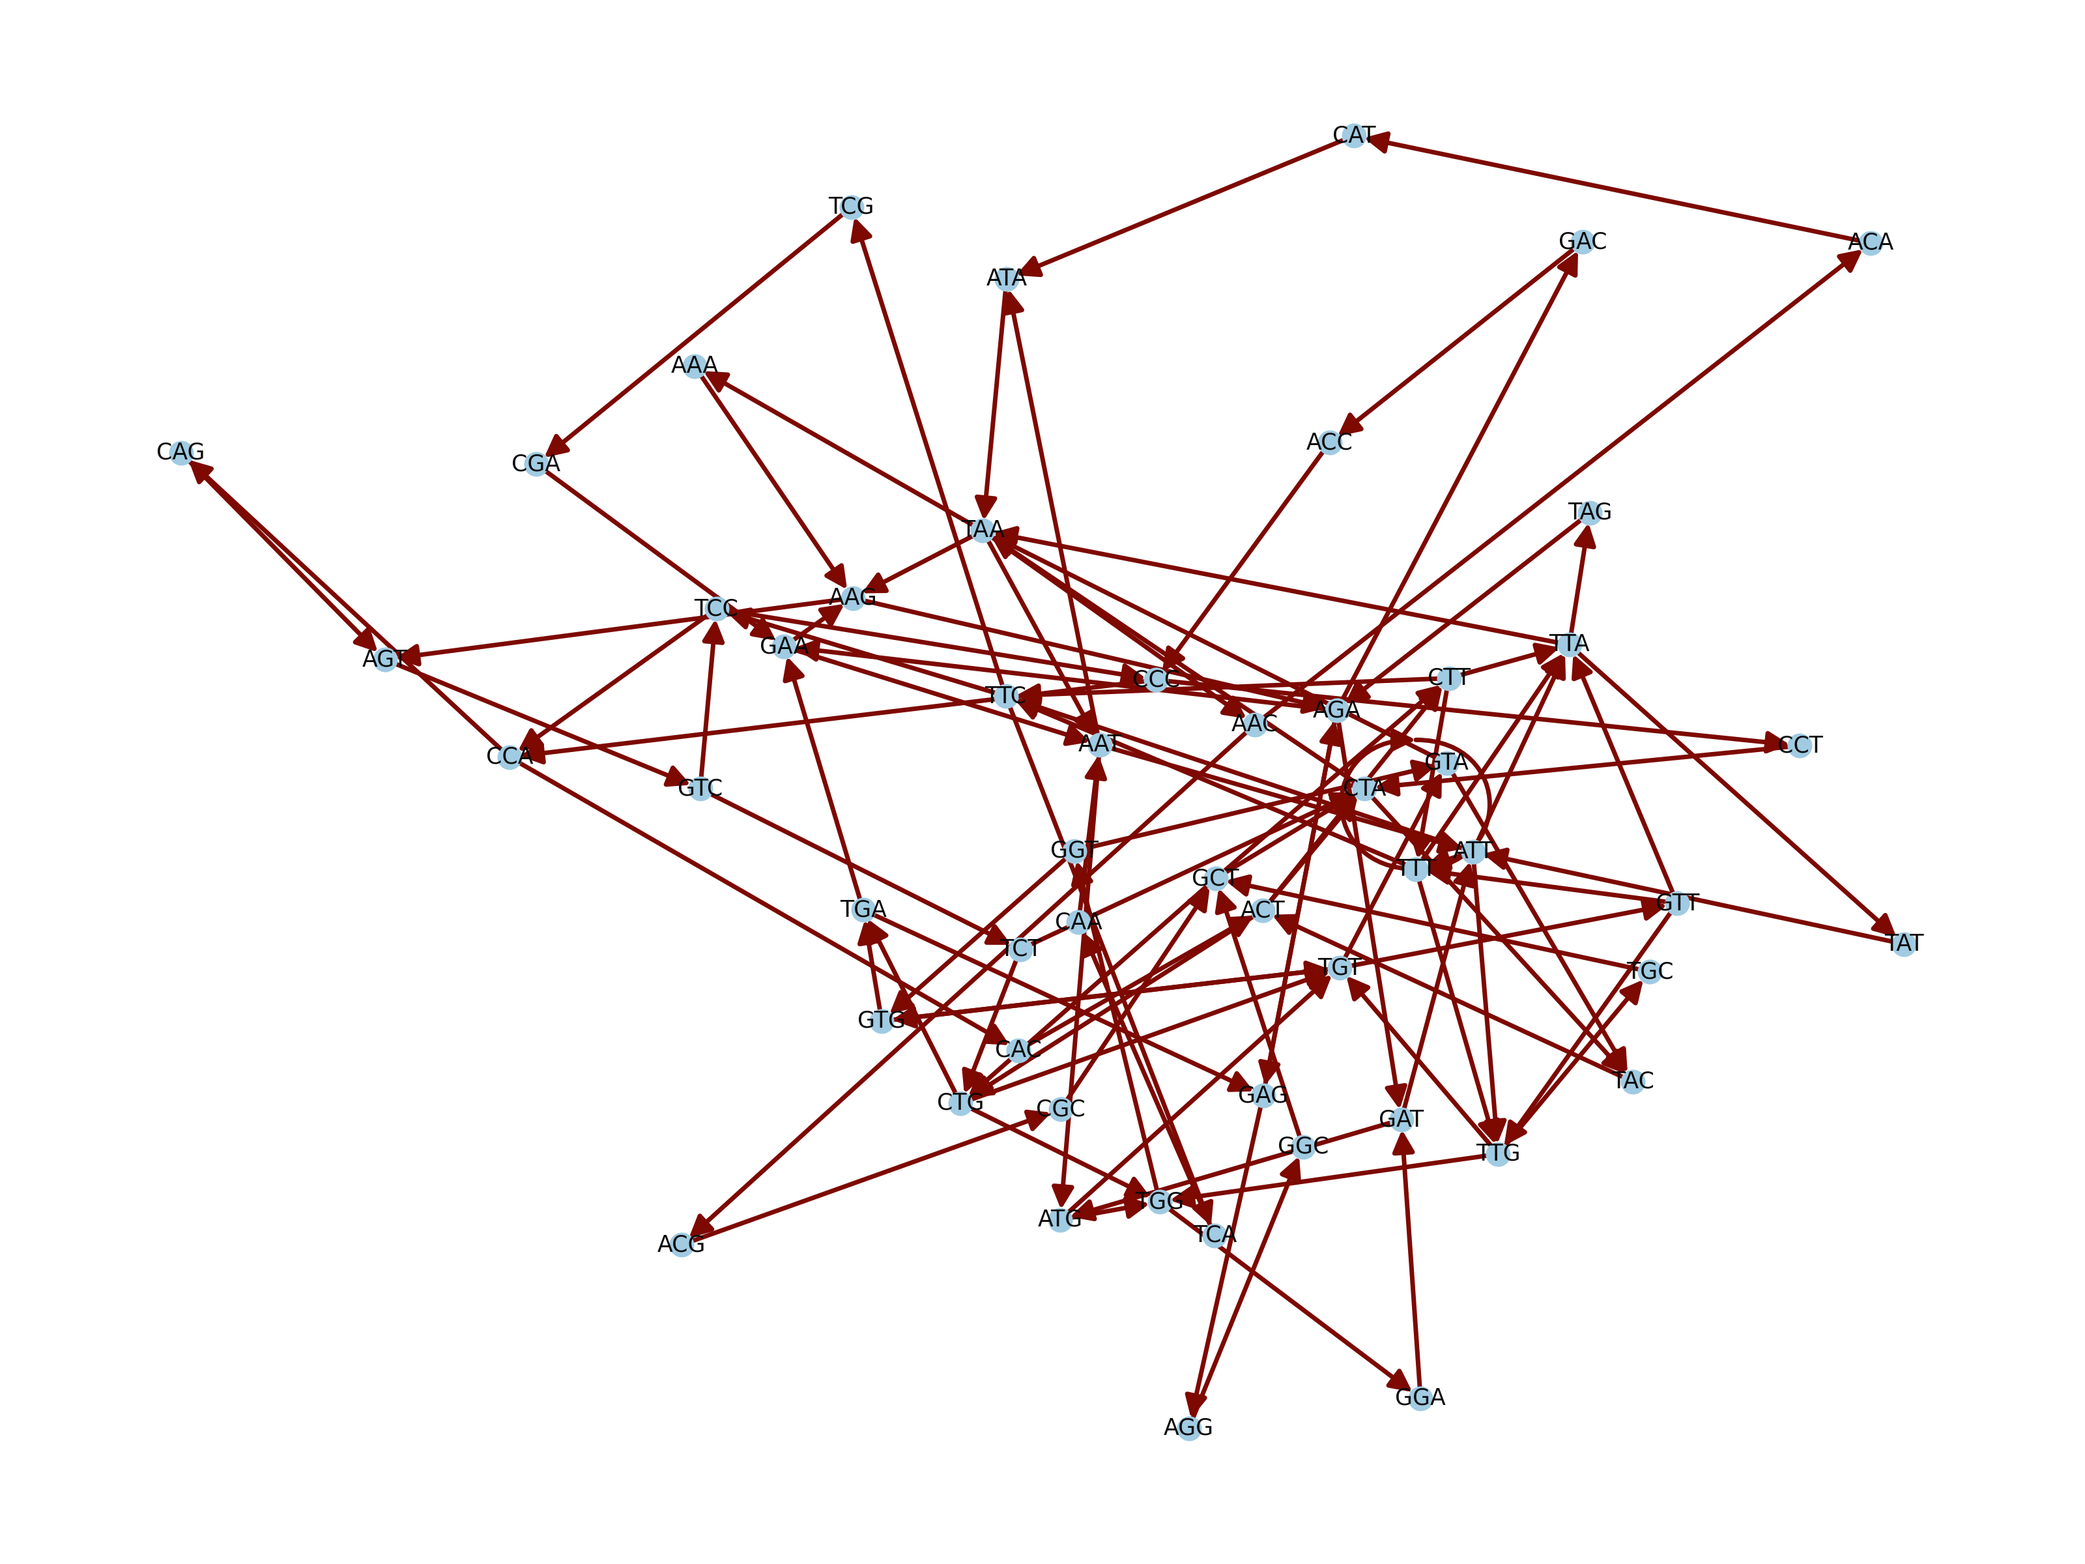
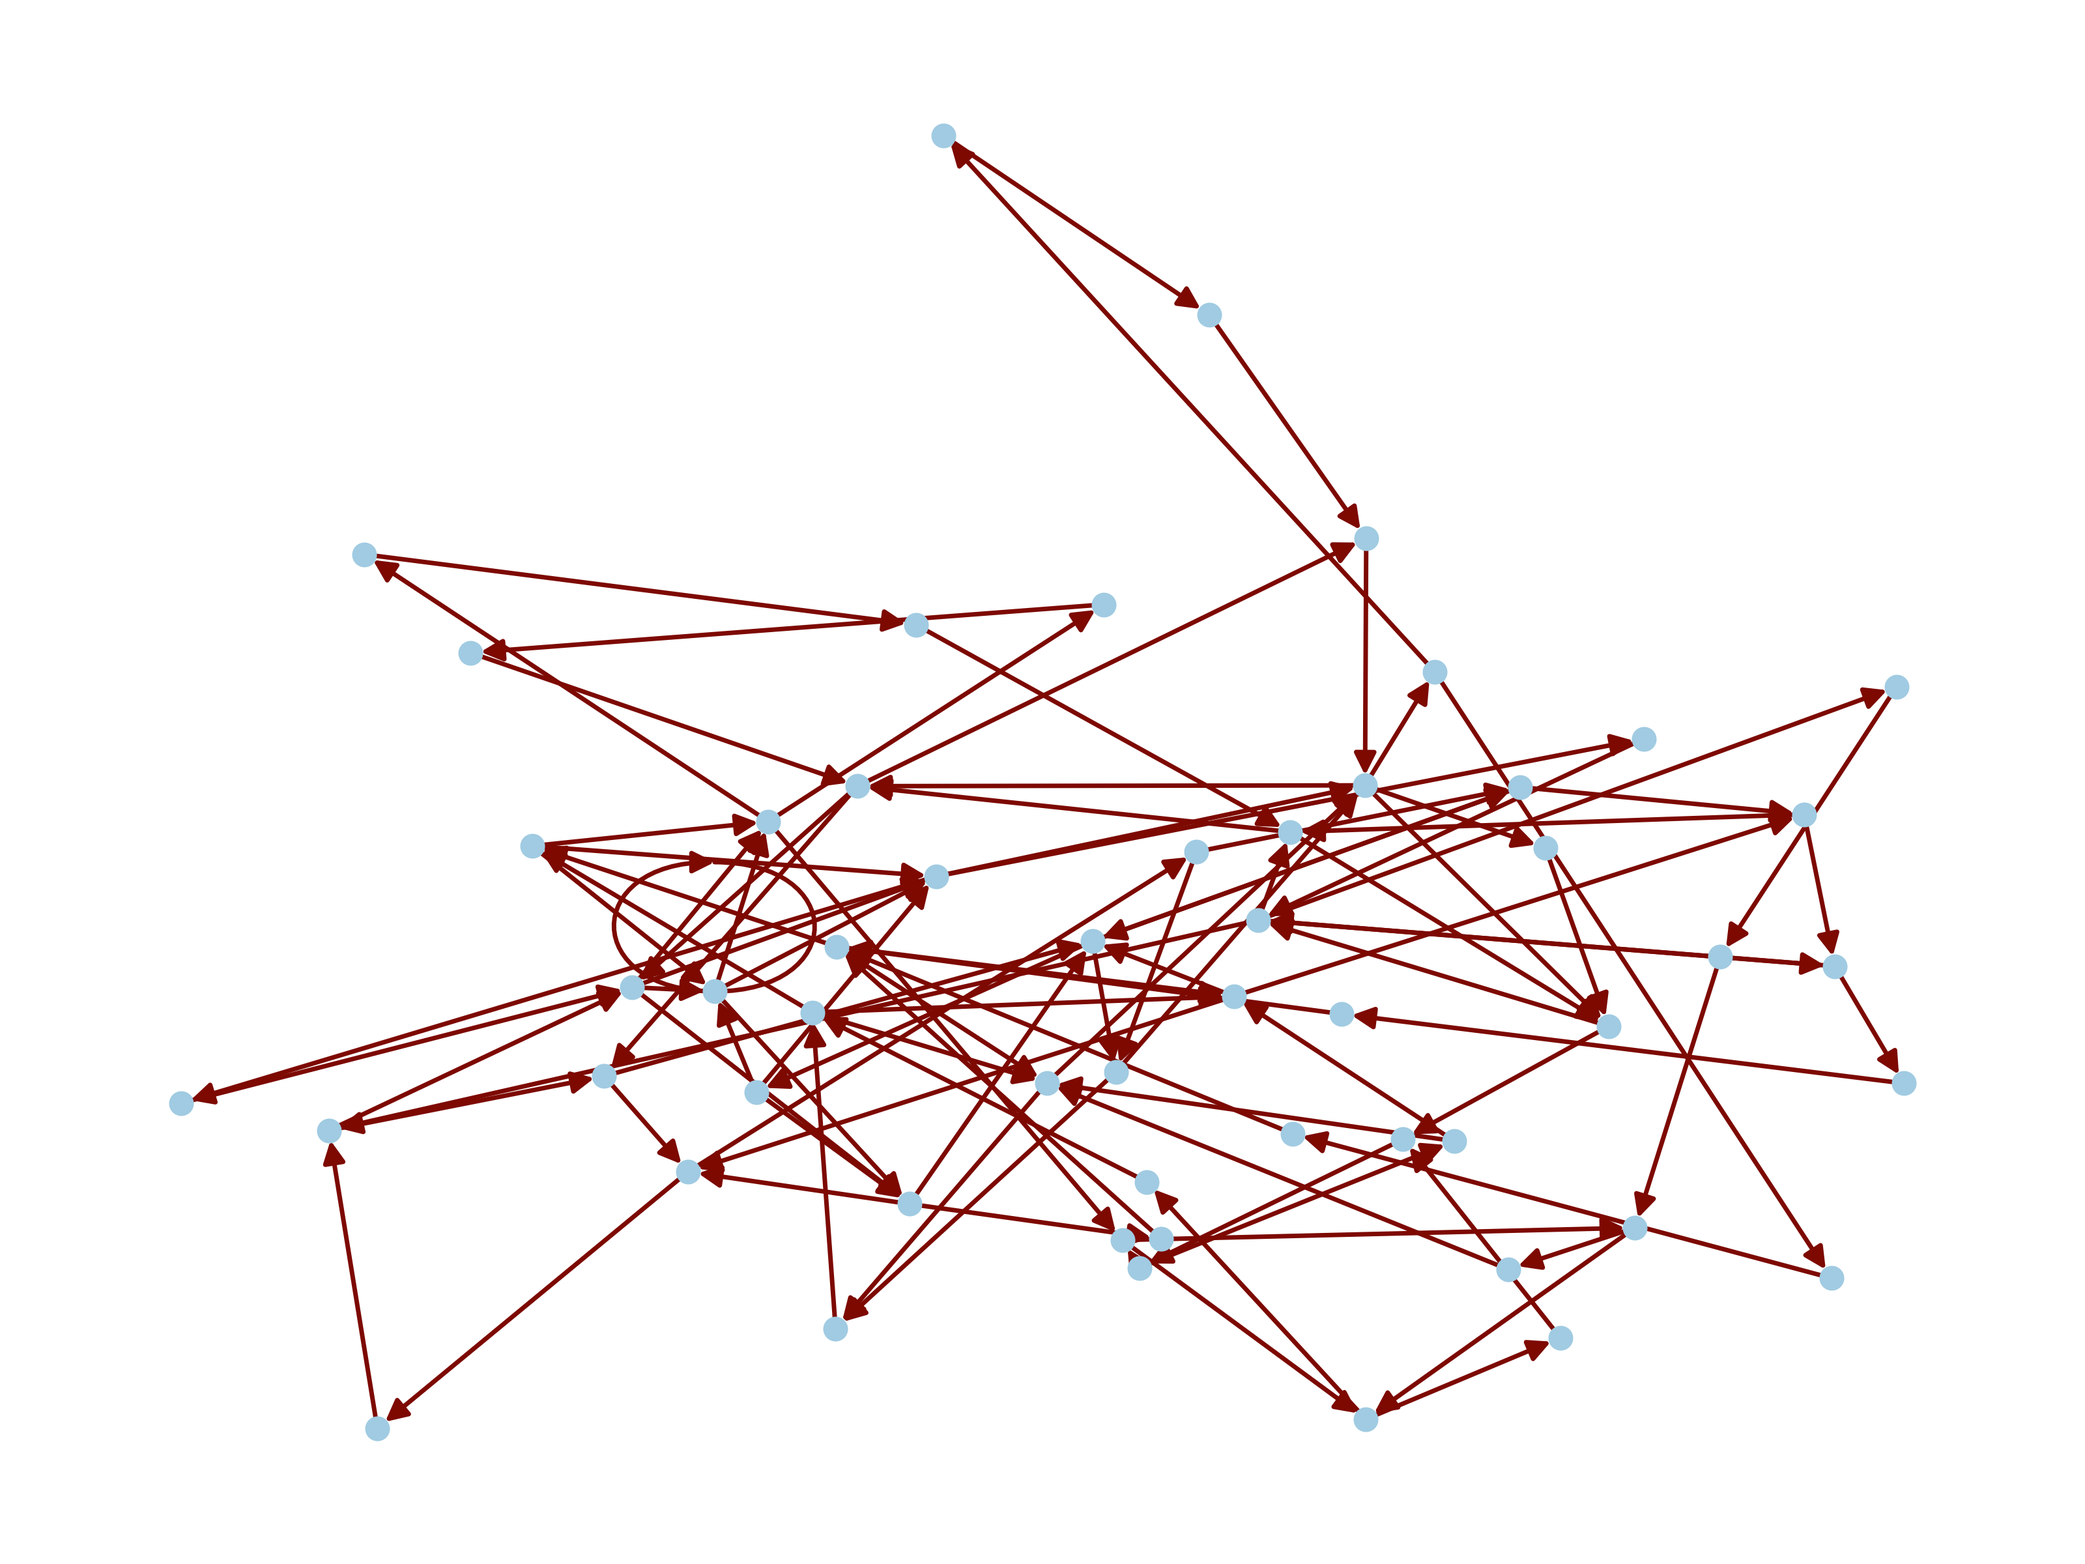
update

diff --git a/alignment.py b/alignment.py
@@ -1,0 +1,251 @@
+# Samuel Kitzerow, kitze012
+
+import numpy as np
+
+'''
+   REFERENCE SEQUENCE
+  |   | A | C | G | T |
+----------------------|
+  |   |   |   |   |   |A S
+----------------------|L E
+A |   |   |   |   |   |I Q
+----------------------|G U
+C |   |   |   |   |   |N E
+----------------------|M N
+G |   |   |   |   |   |E C
+----------------------|N E
+T |   |   |   |   |   |T
+-----------------------
+'''
+
+class alignment:
+    def __init__(self, ref, seq, gap_pen = -2, match_pen = -1, ign = False):
+        self.ref = ref                          # Sequence being referenced
+        self.seq = seq                          # Sequence 1
+        self.gap_pen = gap_pen                  # Gap penalty
+        self.match_pen = match_pen              # Mismatch penalty
+        self.ign = ign                          # Ignore start and end gaps
+
+        self.score = 0                          # Alignment score
+        self.ref_align = ""                     # Alignment of sequence reference with gaps added
+        self.seq_align = ""                     # Alignment of sequence 1 with gaps added
+        self.vis = ""                           # Visualization of alignment (for text file)
+
+        self.counts = [0,0,0,0]                 # Counts: matches, mismatches, gaps, ens/start gaps
+
+        self.s = None                           # Scoring matrix
+        self.n = None                           # Neighbor matrix (tracks direction)
+        self.build_matrix()
+    
+    # ----------------------------------------------------------------------------------------------------------------------
+    # Initializes scoring and neighbor matrices
+    def build_matrix(self):
+        col = len(self.ref) + 1
+        row = len(self.seq) + 1
+
+        self.s = np.array([[0]*col for i in range(row)])                # Initialize scoring matrix
+        self.n = np.array([[None]*col for i in range(row)])             # Initialize neighbor matrix
+
+        k = 0
+        for i in range(col):
+            k = (self.gap_pen * i)
+            if(self.ign): self.s[0, i] = 0                              # Ignore start and end gap penalties by zeroing
+            else: self.s[0, i] = k                                      # Adding row gap penalties
+            self.n[0, i] = (0,i-1)                                      # Adding row placeholders for neighbor matrix
+        
+        k = 0
+        for i in range(row):
+            k = (self.gap_pen * i)
+            if(self.ign): self.s[i, 0] = 0                              # Ignore start and end gap penalties by zeroing
+            else: self.s[i, 0] = k                                      # Adding column gap penalties
+            self.n[i, 0] = (i-1,0)                                      # Adding column placeholders for neighbor matrix
+
+        self.n[0, 0] = None
+
+        for n in range(1, row):                                         # Iterate thru each element once for alignment
+            for m in range(1, col):
+                # print("Row: ", n, " Col: ", m)
+                self.align_sequence(m, n)                               # Computing each score at row x column
+    
+    # ----------------------------------------------------------------------------------------------------------------------
+    # Populates neighbor and scoring matrices with corresponding placement scores and neighbors
+    def align_sequence(self, col, row):
+        #print("Col: ", col," Row: ", row)
+
+        left = self.s[row][col-1] + self.gap_pen                        # Score from right neighbor                             
+        right = self.s[row-1][col] + self.gap_pen                       # Score from right neighbor
+
+        if(self.ref[col-1] == self.seq[row-1]):                         # Check for matches
+            corner = self.s[row-1][col-1] + 1                           # Score from corner neighbor
+        else:                                                           # No match, add penalty
+            corner = self.s[row-1][col-1] + self.match_pen              # Score from corner neighbor
+
+        score = max(left, corner, right)                                # Take the best score
+
+        if(left == score):                                              # Best path is left neighbor
+            self.n[row][col] = (row, col-1)
+        elif(corner == score):                                          # Best path is corner neighbor
+            self.n[row][col] = (row-1, col-1)
+        else:                                                           # Best path is right neighbor
+            self.n[row][col] = (row-1, col)
+
+        self.s[row][col] = score                                        # Add score to matrix
+
+    # ----------------------------------------------------------------------------------------------------------------------
+    # Universal getter for alignment strings
+    def get_alignment(self):
+
+        # Resetting alignment values
+        self.ref_align = ""
+        self.seq_align = ""
+        self.vis = ""
+        self.score = 0
+
+        if(self.ign): 
+            self.get_local_alignment()               # Get alignment that ignores start/end gaps
+        else: 
+            self.get_global_alignment()              # Get alignment the tracks start/end gaps
+
+        return (self.ref_align, self.vis, self.seq_align, self.score)
+    
+    # ----------------------------------------------------------------------------------------------------------------------
+    # Creates alignment strings for sequence reference, sequence 1, and alignment visualization. Also computes total alignment score.
+    def get_global_alignment(self):
+
+        if(self.ign):                                                           # Matrix must be rebuilt to count start/end gaps
+            self.ign = False
+            self.build_matrix()
+
+        row = len(self.seq)
+        col = len(self.ref)
+        pos = self.n[row][col]                                                  # Start alignment here
+        
+        while(pos != None):
+            # print("Alignment: ", pos, " Row: ", row, " Col: ", col)
+            self.alignment_string(row, col, pos)
+
+            # Incrementing values to next neighbor
+            row = pos[0]
+            col = pos[1]
+            pos = self.n[row][col]
+
+    # ----------------------------------------------------------------------------------------------------------------------
+    # # Creates alignment strings for sequence reference, sequence 1, and alignment visualization while ingoring start/end gaps
+    def get_local_alignment(self):
+
+        if(self.ign == False):                      # Matrix must be rebuilt to ignore start/end gaps
+            self.ign = True
+            self.build_matrix()
+
+        row = len(self.seq)                         # Last Row
+        col = np.argmax(self.s[row])                # Get index with max value
+        pos = self.n[row][col]                      # Get contributing neighbor
+
+        i = len(self.ref)
+        while(i > col):                             # Adding end characters to alignment strings
+            #print("Index: ", i)
+            self.ref_align = self.ref[i-1] + self.ref_align
+            self.seq_align = "_" + self.seq_align
+            self.vis = " " + self.vis
+            self.counts[3] += 1                                     # Incrementing start/end gap count
+            i -= 1
+
+        while(row != 0 and col != 0):                               # Adding alignment characters
+            #print("Alignment: ", pos, " Row: ", row, " Col: ", col, " Score: ", self.score)
+            self.alignment_string(row, col, pos)
+
+            # Incrementing values to next neighbor
+            row = pos[0]
+            col = pos[1]
+            pos = self.n[row][col]
+
+        while(pos != None):                                         # Adding start characters to alignment strings
+            #print("Row: ", row, " Col: ", col, " Pos: ", pos)
+            if(col == 0):                                           # End of reference string reached
+                self.ref_align = "_" + self.ref_align
+                self.seq_align = self.seq[row-1] + self.seq_align
+            elif(row == 0):                                         # End of sequence being aligned
+                self.ref_align = self.ref[col-1] + self.ref_align
+                self.seq_align = "_" + self.seq_align
+
+            self.vis = " " + self.vis
+            self.counts[3] += 1                                     # Incrementing start/end gap count
+            
+            # Incrementing values to next neighbor
+            row = pos[0]
+            col = pos[1]
+            pos = self.n[row][col]
+
+    # ----------------------------------------------------------------------------------------------------------------------
+    # Appends to alignment strings (self.ref_align, self.seq_align, and self.vis)
+    def alignment_string(self, row, col, pos):
+
+        if(pos[0] == row-1 and pos[1] == col-1):                            # Diagonal alignment
+            self.ref_align = self.ref[col-1] + self.ref_align
+            self.seq_align = self.seq[row-1] + self.seq_align
+
+            if(self.ref[col-1] == self.seq[row-1]):                         # Character match
+                self.vis = "|" + self.vis
+                self.score += 1
+                self.counts[0] += 1                                         # Incrementing match count
+
+            else:                                                           # Character mismatch
+                self.vis = "X" + self.vis
+                self.score += self.match_pen
+                self.counts[1] += 1                                         # Incrementing mismatch count
+            
+
+        elif(pos[0] == row-1 and pos[1] == col):                            # Verticle alignment (sequence 1 gap)
+            self.ref_align = "_" + self.ref_align
+            self.seq_align = self.seq[row-1] + self.seq_align
+            self.vis = " " + self.vis
+            self.score += self.gap_pen                                      # Add gap penalty to score
+            self.counts[2] += 1                                             # Incrementing gap count
+
+        elif(row == pos[0] and pos[1] == col-1):                            # Horizontal alignment (sequence 2 gap)
+            self.ref_align = self.ref[col-1] + self.ref_align
+            self.seq_align = "_" + self.seq_align
+            self.vis = " " + self.vis
+            self.score += self.gap_pen                                      # Add gap penalty to score
+            self.counts[2] += 1                                             # Incrementing gap count
+    
+    # ----------------------------------------------------------------------------------------------------------------------
+    # Prints score and neighbor matrices (I didn't want to keep typing the prints in main)
+    def print_matrices(self):
+        print(self.s)
+        print(self.n)
+    
+    # ----------------------------------------------------------------------------------------------------------------------
+    # Prints aligned sequences with visiualization (I didn't want to keep typing the prints in main as well)
+    '''
+    Score: 23
+    __C_GATT_TCGGG...
+      |  ||| |xx||
+    AGCA_ATTCTTCGG...
+    '''
+    def print_alignment(self):
+        print("Score: ", self.score)
+        print(self.ref_align)
+        print(self.vis)
+        print(self.seq_align)
+
+# ==========================================================================================================================
+# Testing
+def main():
+    ref = "ATGTTTGTTTTTCTTGTTTTATTGCCACTAGTCTCTAGTCAGTGTGTTAATCTTACAACCAGA"
+    seq = "AACCCGCCACCATGTTCGTGTTCCTGGTGCTGCTGCCTCTGGTGTCCAGCCAGTGTGTGAACC"
+
+    #a = alignment(ref, seq)
+    #a.print_matrices()
+    #a.get_alignment()
+    #a.print_alignment()
+    #a.print_matrices()
+
+    b = alignment(ref, seq, -2, -1, True)
+    b.get_local_alignment()
+    #b.get_alignment()
+    b.print_alignment()
+    #b.print_matrices()
+
+if __name__ == "__main__":
+    main()

diff --git a/de_bruijn.py b/de_bruijn.py
@@ -19,10 +19,10 @@ class De_bruijn:
         self.edges = set()
 
     # ----------------------------------------------------------------------------------------------------------
-    def de_bruijn_graph(self, start=0, end=1, k=3, cycle=True):
+    def de_bruijn_graph(self, start=0, end=1, k=3, cycle=False):
 
         if(end > len(self.seq) or start < 0 or start > end):             # Cannot exceed bounds of the list self.seq
-            print("ERROR: Invalid input for num!")
+            print("ERROR: Invalid input!")
             return
 
         seq = self.seq[start:end]
@@ -34,7 +34,7 @@ class De_bruijn:
     # Build a list of all kmers in the provided sequences
     # k: kmer size
     # cycle: sequence is cyclic or not
-    def get_kmers(self, seq, k=3, cycle=True):
+    def get_kmers(self, seq, k=3, cycle=False):
         kmers = {}
 
         for s in tqdm(seq, desc=str(k)+'-mers'):   # Iterate thru sequences with progress bar
@@ -112,7 +112,7 @@ class De_bruijn:
 
     # ----------------------------------------------------------------------------------------------------------
     # Creates graph of connected nodes with corresponding kmers using matplotlib
-    def matplot_graph(self, show_fig=True, save_fig=False, file='./output/deBruijn.png'):
+    def matplot_graph(self, show_lab=False, show_fig=True, save_fig=False, file='./output/deBruijn.png'):
         print("Creating Garph Image: ", file)
         with tqdm(total=4, desc='Image Graph') as bar:              # Progress bar
             plt.clf()
@@ -127,7 +127,7 @@ class De_bruijn:
                 "node_color": "#A0CBE2",
                 "node_size": 20,
                 "edge_color": "#7d0901",
-                "with_labels": True,            # Show kmer labels
+                "with_labels": show_lab,            # Show kmer labels
                 "font_size": 5,
                 "font_color": "#0a0a0a"
             }
@@ -147,6 +147,6 @@ class De_bruijn:
     # i: label for k-mer used (used for kmer loop)
     def make_docs(self, edge_graph=False, edge_file=False, dir_graph=False, i='1'):
 
-        if(edge_graph): self.matplot_graph(False,True, './output/deBruijn_' + i + '.png')
+        if(edge_graph): self.matplot_graph(False, False,True, './output/deBruijn_' + i + '.png')
         if(edge_file): self.create_edges_file('output/temp/edges_' + i + '.txt')
         if(dir_graph): self.create_directed_graph('output/temp/spike_protein_directed_graph_' + i + '.txt')

diff --git a/main.py b/main.py
@@ -41,7 +41,7 @@ def get_data(filename):
 
 # ==============================================================================================================
 # Writes data to a text file
-def make_txt(data, filename='./output/output.txt'):
+def make_txt(data, filename='./output/temp/output.txt'):
 
     with open(filename, 'w', newline='') as file:
         for x in data:
